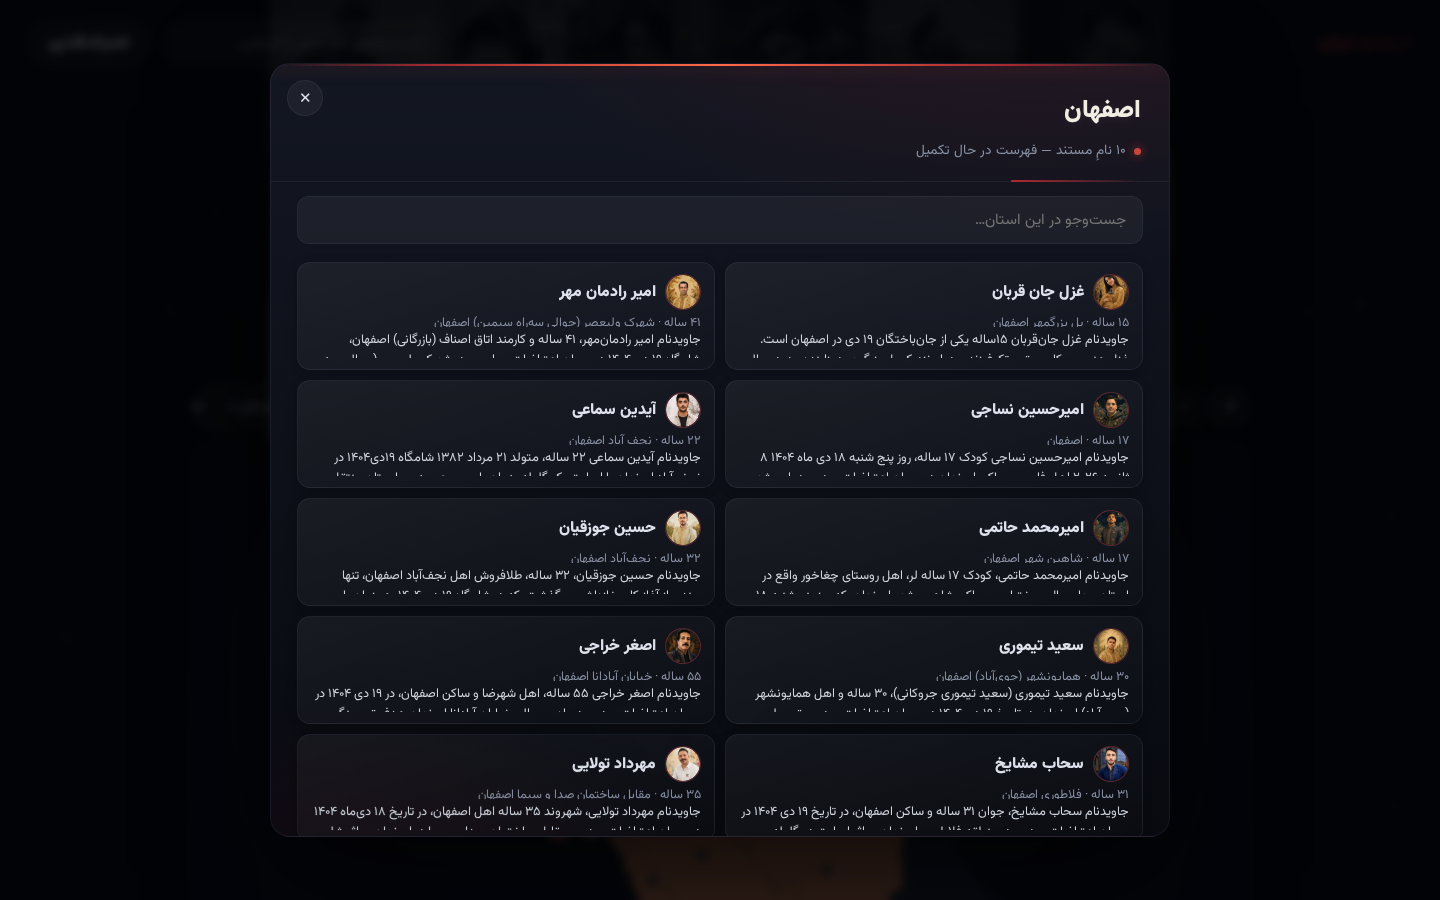
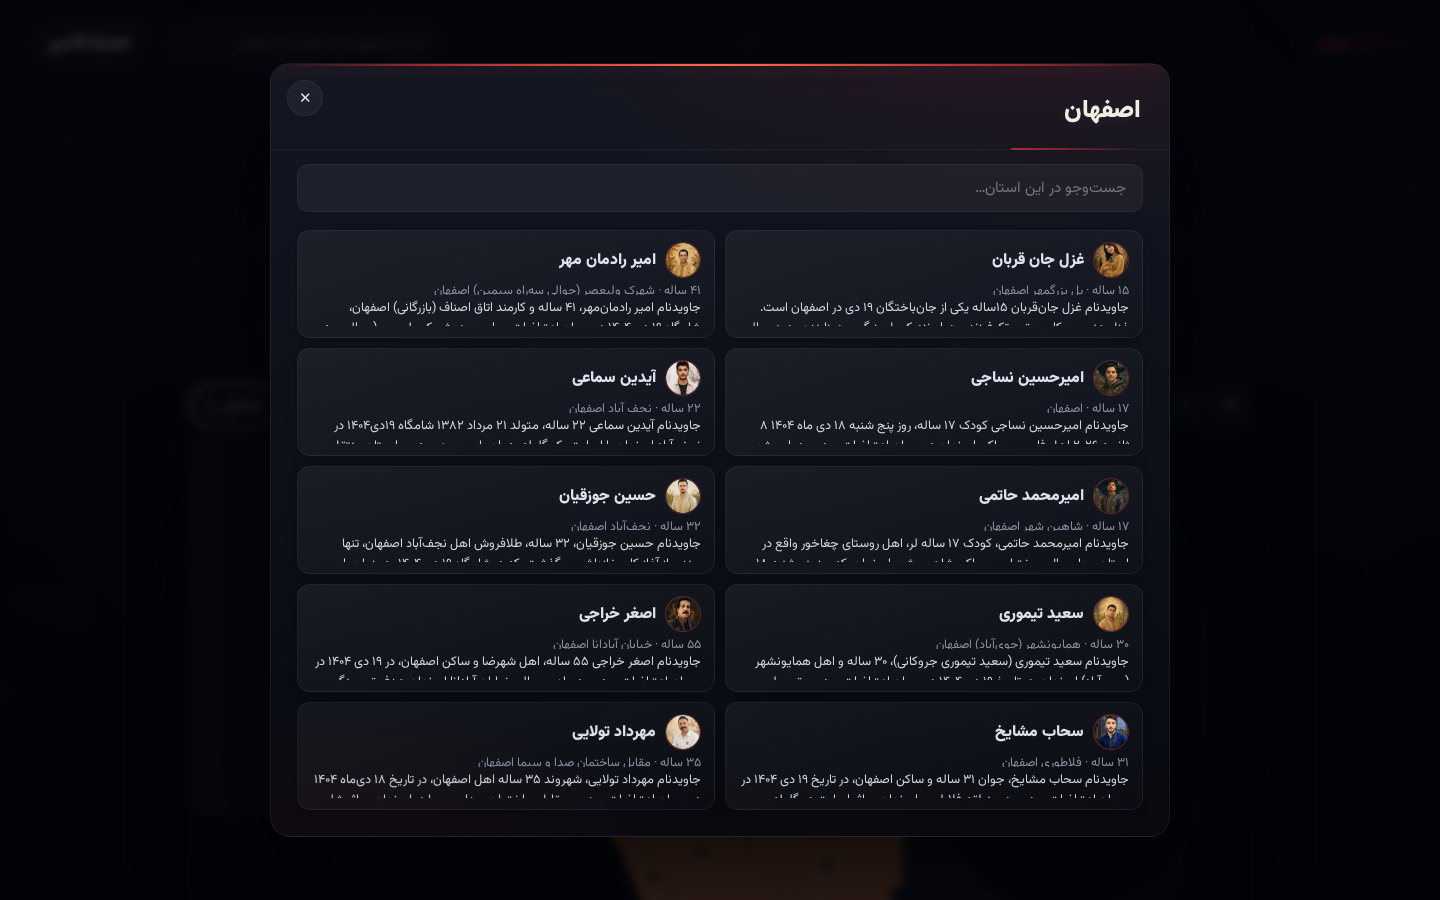
سادهسازی منوی استان و پنجرهی استان
- حذف آیکون کنار دکمهی «استان»
- حذف نشانهای تعداد/«در انتظار» از منو — فقط اسم استانها
- حذف خط شمارش (نقطهی تپنده) از هدر پنجرهی استان — فقط اسم استان
- پیام مناسب برای استانهای بدون نام

diff --git a/js/app.js b/js/app.js
@@ -94,7 +94,6 @@
   const searchResults = $('#searchResults');
   const modal = $('#modal');
   const modalProvince = $('#modalProvince');
-  const modalCount = $('#modalCount');
   const modalSearch = $('#modalSearch');
   const modalList = $('#modalList');
   const detail = $('#detail');
@@ -262,7 +261,6 @@
     let provMenuOpen = false;
 
     Object.keys(PROVINCES).forEach(function (pid) {
-      const c = countOf(pid);
       const item = document.createElement('button');
       item.type = 'button';
       item.className = 'prov-jump-item';
@@ -272,17 +270,7 @@
       const nameSpan = document.createElement('span');
       nameSpan.textContent = PROVINCES[pid];
 
-      const badge = document.createElement('span');
-      if (c) {
-        badge.className = 'pj-count';
-        badge.textContent = toFa(c);
-      } else {
-        badge.className = 'pj-empty';
-        badge.textContent = 'در انتظار';
-      }
-
       item.appendChild(nameSpan);
-      item.appendChild(badge);
       item.addEventListener('click', function () {
         closeProvMenu();
         provJumpLabel.textContent = PROVINCES[pid];
@@ -360,9 +348,6 @@
     filtered = list.slice();
     modalSearch.value = '';
     modalProvince.textContent = PROVINCES[pid] || pid;
-    modalCount.textContent = list.length
-      ? toFa(list.length) + ' نامِ مستند — فهرست در حال تکمیل'
-      : 'هنوز نامی برای این استان ثبت نشده است';
     modal.classList.add('open');
     modal.setAttribute('aria-hidden', 'false');
     document.body.style.overflow = 'hidden';
@@ -394,7 +379,10 @@
     if (!filtered.length) {
       if (contentEl) { contentEl.remove(); contentEl = null; }
       if (!modalList.querySelector('.list-empty')) {
-        modalList.innerHTML = '<div class="list-empty">نامی یافت نشد.</div>';
+        const msg = (byProvince[provincePid] || []).length === 0
+          ? 'هنوز نامی برای این استان ثبت نشده است.'
+          : 'نامی یافت نشد.';
+        modalList.innerHTML = '<div class="list-empty">' + msg + '</div>';
       }
       modalList.scrollTop = 0;
       return;

diff --git a/css/style.css b/css/style.css
@@ -186,15 +186,6 @@ body {
   transition: background .15s;
 }
 .prov-jump-item:hover { background: rgba(208,73,63,.14); }
-.prov-jump-item .pj-count {
-  font-size: .75rem; font-weight: 700; color: #1a100a;
-  background: linear-gradient(135deg, #c98a5f, #b06a45);
-  border-radius: 999px; padding: 1px 10px;
-}
-.prov-jump-item .pj-empty {
-  font-size: .72rem; color: var(--faint);
-  background: rgba(255,255,255,.06); border-radius: 999px; padding: 1px 10px;
-}
 
 #mapWrap {
   position: relative; height: clamp(430px, 66vh, 760px);
@@ -263,7 +254,6 @@ body {
 
 .modal-head { padding: 24px 28px 14px; border-bottom: 1px solid var(--line); }
 .modal-province { margin: 0; font-size: 1.55rem; font-weight: 900; color: var(--gold-soft); }
-.modal-count { color: var(--muted); font-size: .86rem; margin-top: 3px; }
 
 .modal-search { padding: 14px 26px 4px; }
 .modal-search input {
@@ -438,13 +428,6 @@ body {
   color: #f2ede3;
   text-shadow: 0 1px 12px rgba(255,255,255,.08);
 }
-.modal-count { display: inline-flex; align-items: center; gap: 8px; }
-.modal-count::before {
-  content: ""; width: 7px; height: 7px; border-radius: 50%;
-  background: #d0493f; box-shadow: 0 0 10px rgba(214, 58, 54, .8);
-  animation: countPulse 2.4s ease-in-out infinite;
-}
-@keyframes countPulse { 0%,100% { opacity: .5; } 50% { opacity: 1; } }
 
 /* ---------- کارتهای نام: ورود پلکانی و هاور زنده ---------- */
 .v-content.anim .v-cell {

diff --git a/index.html b/index.html
@@ -47,7 +47,6 @@
     </div>
     <div class="prov-jump" id="provJumpBox">
       <button id="provJumpBtn" class="prov-jump-btn" aria-haspopup="listbox" aria-expanded="false">
-        <span class="prov-jump-icon">🗺</span>
         <span id="provJumpLabel">استان</span>
         <span class="chev">▾</span>
       </button>
@@ -73,7 +72,6 @@
     <button class="modal-close" data-close="modal" aria-label="بستن">✕</button>
     <header class="modal-head">
       <h2 class="modal-province" id="modalProvince"></h2>
-      <div class="modal-count" id="modalCount"></div>
     </header>
     <div class="modal-search">
       <input id="modalSearch" type="text" placeholder="جستوجو در این استان…" autocomplete="off" />
